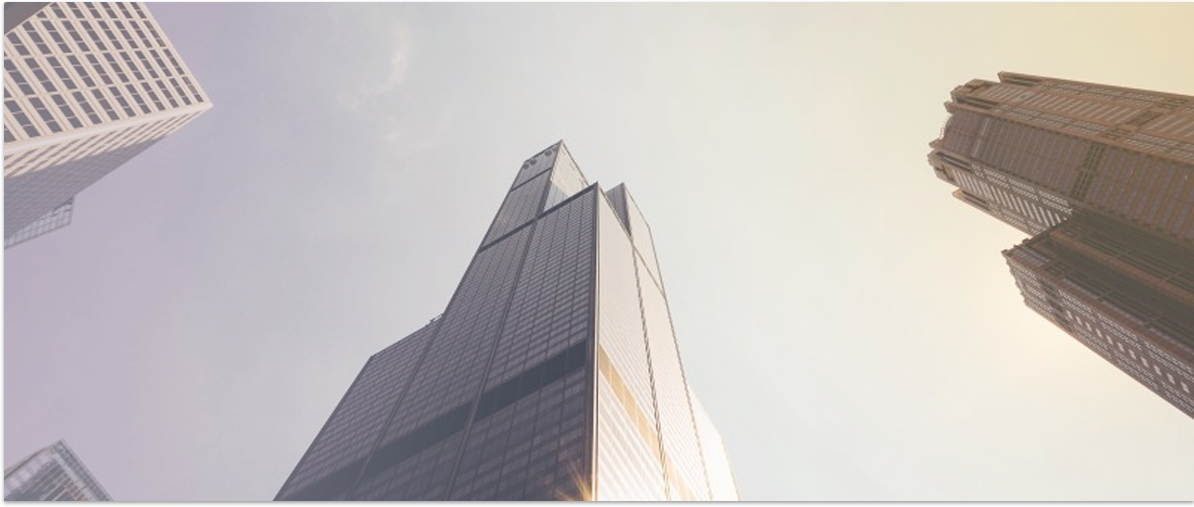
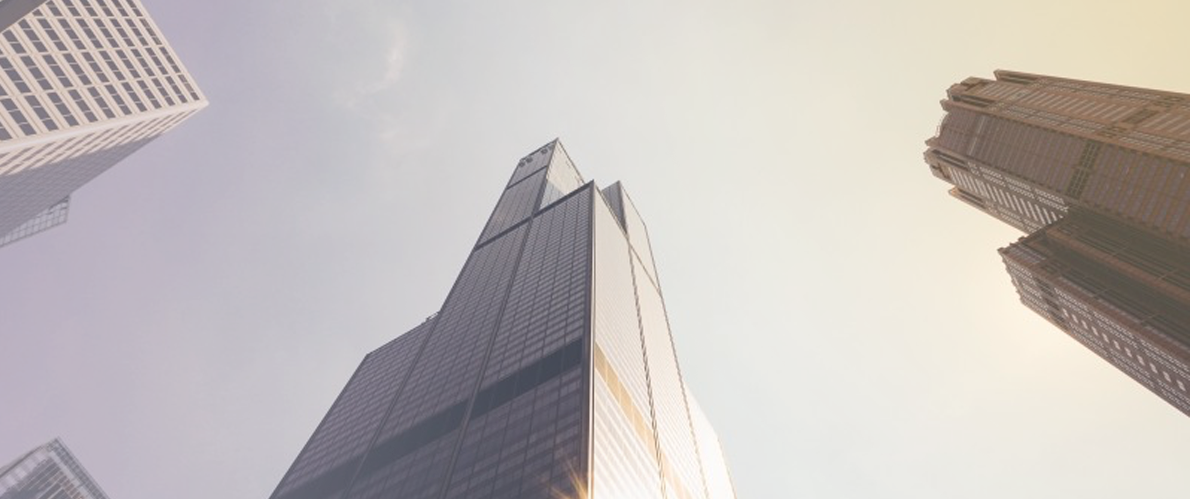
section vision composition

diff --git a/styles/style.css b/styles/style.css
@@ -23,6 +23,9 @@ body {
     box-sizing: border-box;
 }
 
+h1, h2, h3, h4, h5, h6 {
+  font-weight: 100;
+}
 
 a {
   color: #333;
@@ -44,6 +47,11 @@ li {
   width: 1180px;
   margin: auto;
 }
+
+.signature {
+  position: absolute;
+}
+
 /* HEADER  =================== */
 
 
@@ -103,9 +111,7 @@ nav img {
 }
 
 #banner .container {
-  display: inline-flex;
   padding-top: 105px;
-  width: 100%;
 }
 
 #banner .container>div {
@@ -122,7 +128,6 @@ nav img {
   font-size: 7em;
   line-height: 0.9;
   text-align: center;
-  font-weight: 100;
   letter-spacing: 2px;
   margin: 0;
   padding-right: 180px;
@@ -130,7 +135,7 @@ nav img {
 
 .bio {
   position: relative;
-  margin-right: 25px;
+  margin-right: 11px;
   width : 579px;
   height: 413px;
   padding: 21px 100px 43px 100px;
@@ -145,31 +150,77 @@ nav img {
   line-height: 1.6;
   font-family: 'Open Sans', sans-serif;
   text-transform: none;
-  font-weight: 100;
   color: #4A4A4A;
   letter-spacing: 0.2px
 }
 
 .bio h2 {
   font-size: 36px;
-  font-weight: 100;
   letter-spacing: 1.1px;
   margin-bottom: 0;
 }
 
 .bio h4 {
   text-decoration: underline;
-  font-weight: 100;
   letter-spacing: 1px;
 }
 
 
-.bio img {
-  position: absolute;
-  left: -210px;
+#banner .signature {
+  left: -280px;
   top: 10px;
 }
 
+/* VISION ===================== */
+
+#vision {
+  position: relative;
+  background-image: url('../images/building.png');
+  background-position:  top 200px right;
+  background-repeat: no-repeat;
+  height: 700px;
+}
+
+#vision .contents {
+  position: relative;
+  width: 100%;
+  display: flex;
+  justify-content: space-between;
+  margin-top: 140px;
+
+}
+
+#vision .photos:first-child {
+  width: 480px;
+
+}
+
+#vision .signature {
+  right: 0;
+  top: 600px;
+}
+
+.quote {
+  width: 380px;
+  height: 300px;
+  margin-top: 270px;
+  display: flex;
+  flex-direction: column;
+  justify-content: flex-end;
+  align-items: space-around;
+}
+
+.quote h1 {
+  font-size: 20em;
+  line-height: 0px;
+  margin: 0px;
+}
+
+.quote p {
+  font-size: 1.8em;
+  line-height: 42px;
+  margin: 0;
+}
 
 
 

diff --git a/page.html b/page.html
@@ -30,34 +30,36 @@
       <div>
         <h1>Josef <br/>Azam</h1>
         <div class= "bio">
-          <img src="images/signature1.png" alt="signature">
+          <img class="signature" src="images/signature1.png" alt="signature">
           <h2>Lorem ipsum</h2>
           <p>Lorem ipsum dolor sit amet, consectetur adipiscing elit. Ut nisi risus, dignissim in iaculis a, eleifend vitae est. Curabitur pellentesque dolor a justo facilisis maximus. Curabitur purus tortor, fringilla id porta nec, consectetur sed ante. Etiam hendrerit in est et mollis. Fusce lectus ligula, vulputate a ornare at, vulputate ac mi. Nullam sodales nisl nec interdum pharetra. Integer imperdiet risus cursus, elementum nunc condimentum, eleifend elit. Nam dictum felis mauris, nec aliquam purus rutrum in. Nulla nunc nisi, viverra sed vehicula non, fermentum eu lorem. Nulla sed vestibulum lorem.</p>
           <h4>let's talk</h4>
         </div>
       </div>
-      <div></div>
 
     </div>
   </section>
 
 <!-- VISION ++++++ Quote and photos +++++++ =================================== -->
 
-  <section>
+  <section id="vision">
     <div class="container">
-      <div>
-        <h1>"</h1>
-        <p>Lorem ipsum dolor sit amet, consectetur adipisicing.</p>
+      <div class="contents">
+        <div class= "quote">
+          <h1>“</h1>
+          <p>Lorem Ipsum Quote Lorem Ipsum, Lorem Ipsum,</p>
+        </div>
+        <div class= "photos">
+          <img src="images/photo1.png" alt="photo1.png">
+        </div>
       </div>
-      <img src="images/photo1.png" alt="photo1.png">
-      <img src="images/building.png" alt="photo2.png">
-      <img src="images/signature2.png" alt="good thing.png">
     </div>
+    <img class="signature" src="images/signature2.png" alt="good thing.png">
   </section>
 
 <!-- BLOG ACTICLES  ++++++++ Rencent blog post +++++++++ ====================== -->
 
-  <section>
+  <section id="blog">
     <div class="container">
       <h2>let's talk</h2>
       <div>
